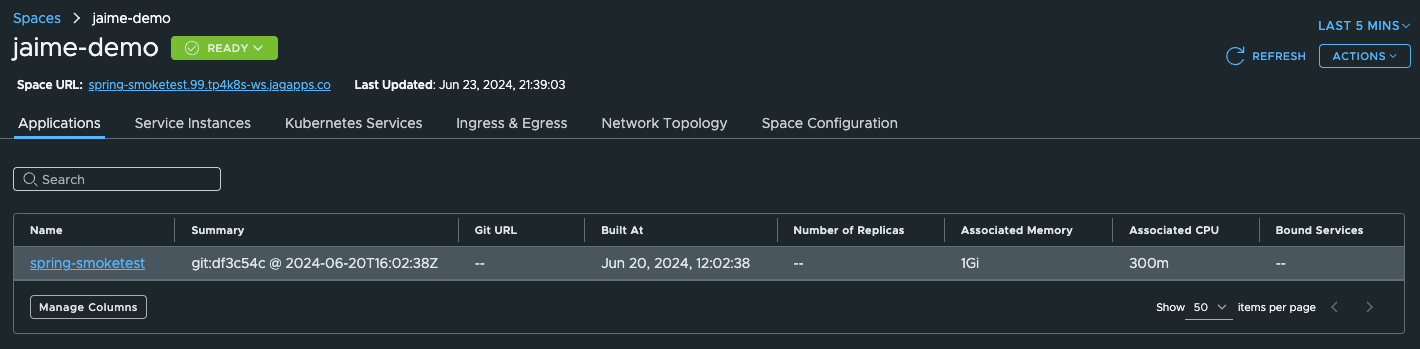
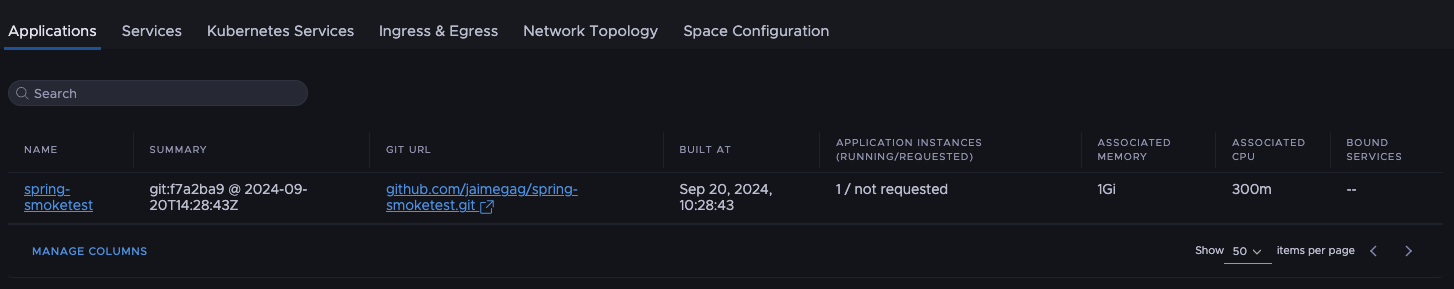
update pe lab to egresspoints and most Aug release changes

diff --git a/lab-platform-engineer/01-full-lab.md b/lab-platform-engineer/01-full-lab.md
@@ -170,18 +170,18 @@ Via command line you can check all the Packages (pkgi resource) for those Capabi
 alias tk='KUBECONFIG=~/.config/tanzu/kube/config kubectl'
 tk get pkgi
 NAME                                    PACKAGE NAME                            PACKAGE VERSION   DESCRIPTION   AGE
-cert-manager.tanzu.vmware.com           cert-manager.tanzu.vmware.com                                           2m8s
-k8sgateway.tanzu.vmware.com             k8sgateway.tanzu.vmware.com                                             2m7s
-tcs.tanzu.vmware.com                    tcs.tanzu.vmware.com                                                    2m5s
-egress.tanzu.vmware.com                 egress.tanzu.vmware.com                                                 2m5s
-observability.tanzu.vmware.com          observability.tanzu.vmware.com                                          2m4s
-mtls.tanzu.vmware.com                   mtls.tanzu.vmware.com                                                   2m4s
-crossplane.tanzu.vmware.com             crossplane.tanzu.vmware.com                                             2m2s
-bitnami.services.tanzu.vmware.com       bitnami.services.tanzu.vmware.com                                       2m2s
-container-apps.tanzu.vmware.com         container-apps.tanzu.vmware.com                                         2m
-servicebinding.tanzu.vmware.com         servicebinding.tanzu.vmware.com                                         119s
-tanzu-servicebinding.tanzu.vmware.com   tanzu-servicebinding.tanzu.vmware.com                                   118s
-spring-cloud-gateway.tanzu.vmware.com   spring-cloud-gateway.tanzu.vmware.com                                   117s
+cert-manager.tanzu.vmware.com           cert-manager.tanzu.vmware.com                                           3m17s
+k8sgateway.tanzu.vmware.com             k8sgateway.tanzu.vmware.com                                             3m16s
+tcs.tanzu.vmware.com                    tcs.tanzu.vmware.com                                                    3m15s
+egress.tanzu.vmware.com                 egress.tanzu.vmware.com                                                 3m14s
+observability.tanzu.vmware.com          observability.tanzu.vmware.com                                          3m13s
+mtls.tanzu.vmware.com                   mtls.tanzu.vmware.com                                                   3m12s
+crossplane.tanzu.vmware.com             crossplane.tanzu.vmware.com                                             3m10s
+bitnami.services.tanzu.vmware.com       bitnami.services.tanzu.vmware.com                                       3m9s
+container-apps.tanzu.vmware.com         container-apps.tanzu.vmware.com                                         3m8s
+servicebinding.tanzu.vmware.com         servicebinding.tanzu.vmware.com                                         3m7s
+tanzu-servicebinding.tanzu.vmware.com   tanzu-servicebinding.tanzu.vmware.com                                   3m6s
+spring-cloud-gateway.tanzu.vmware.com   spring-cloud-gateway.tanzu.vmware.com                                   3m5s
 ```
 
 #### (Optional) Remove needed capability to test error scenario
@@ -310,22 +310,22 @@ kubectl get pkgi -A
 # make sure these packages are reconciled - they are the ones added by the platform
 # note that there more packages than what is shown below, and the versions may be different
 
-NAMESPACE                    NAME                                              PACKAGE NAME                                  PACKAGE VERSION                DESCRIPTION           AGE
-tanzu-cluster-group-system   bitnami.services.tanzu.vmware.com                 bitnami.services.tanzu.vmware.com             0.6.0                          Reconcile succeeded   15h   # added from capabilities
-tanzu-cluster-group-system   cert-manager.tanzu.vmware.com                     cert-manager.tanzu.vmware.com                 2.9.1                          Reconcile succeeded   15h   # added from capabilities
-tanzu-cluster-group-system   container-apps.tanzu.vmware.com                   container-apps.tanzu.vmware.com               0.0.5+1718364253.b6bb7e71      Reconcile succeeded   15h   # added from capabilities
-tanzu-cluster-group-system   crossplane.tanzu.vmware.com                       crossplane.tanzu.vmware.com                   0.7.0                          Reconcile succeeded   15h   # added from capabilities
-tanzu-cluster-group-system   egress.tanzu.vmware.com                           egress.tanzu.vmware.com                       1.1.3                          Reconcile succeeded   15h  # added from capabilities
-tanzu-cluster-group-system   k8sgateway.tanzu.vmware.com                       k8sgateway.tanzu.vmware.com                   0.0.7                          Reconcile succeeded   15h   # added from capabilities
-tanzu-cluster-group-system   mtls.tanzu.vmware.com                             mtls.tanzu.vmware.com                         0.0.1                          Reconcile succeeded   15h   # added from capabilities
-tanzu-cluster-group-system   observability.tanzu.vmware.com                    observability.tanzu.vmware.com                1.0.15                         Reconcile succeeded   15h   # added from capabilities
-tanzu-cluster-group-system   servicebinding.tanzu.vmware.com                   servicebinding.tanzu.vmware.com               0.13.0                         Reconcile succeeded   15h   # added from capabilities
-tanzu-cluster-group-system   spring-cloud-gateway.tanzu.vmware.com             spring-cloud-gateway.tanzu.vmware.com         2.2.4                          Reconcile succeeded   15h   # added from capabilities
-tanzu-cluster-group-system   tanzu-servicebinding.tanzu.vmware.com             tanzu-servicebinding.tanzu.vmware.com         1.1.0+1718281466.c3437892      Reconcile succeeded   15h   # added from capabilities
-tanzu-cluster-group-system   tcs.tanzu.vmware.com                              tcs.tanzu.vmware.com                          2.2.14                         Reconcile succeeded   15h   # added from capabilities
-tanzu-system                 capabilities-controller                           capabilities-controller.tanzu.vmware.com      1.0.1+release.test             Reconcile succeeded   15h   # added from ucp
-tanzu-system                 syncer                                            syncer.ucp.tanzu.vmware.com                   1.0.1+release.15.180eca5c3     Reconcile succeeded   15h   # added from ucp
-tanzu-system                 vss-k8s-collector                                 vss-k8s-collector.tanzu.vmware.com            3.18.3                         Reconcile succeeded   15h   # added from ucp
+NAMESPACE                            NAME                                              PACKAGE NAME                                PACKAGE VERSION              DESCRIPTION           AGE
+tanzu-cluster-group-system           bitnami.services.tanzu.vmware.com                 bitnami.services.tanzu.vmware.com           0.8.0                        Reconcile succeeded   15h   # added from capabilities
+tanzu-cluster-group-system           cert-manager.tanzu.vmware.com                     cert-manager.tanzu.vmware.com               2.10.0                       Reconcile succeeded   15h   # added from capabilities
+tanzu-cluster-group-system           container-apps.tanzu.vmware.com                   container-apps.tanzu.vmware.com             0.0.8+1722931722.e9f0ea78    Reconcile succeeded   15h   # added from capabilities
+tanzu-cluster-group-system           crossplane.tanzu.vmware.com                       crossplane.tanzu.vmware.com                 0.8.1                        Reconcile succeeded   15h   # added from capabilities
+tanzu-cluster-group-system           egress.tanzu.vmware.com                           egress.tanzu.vmware.com                     1.3.0                        Reconcile succeeded   15h   # added from capabilities
+tanzu-cluster-group-system           k8sgateway.tanzu.vmware.com                       k8sgateway.tanzu.vmware.com                 0.0.7                        Reconcile succeeded   15h   # added from capabilities
+tanzu-cluster-group-system           mtls.tanzu.vmware.com                             mtls.tanzu.vmware.com                       0.0.1                        Reconcile succeeded   15h   # added from capabilities
+tanzu-cluster-group-system           observability.tanzu.vmware.com                    observability.tanzu.vmware.com              1.0.17                       Reconcile succeeded   15h   # added from capabilities
+tanzu-cluster-group-system           servicebinding.tanzu.vmware.com                   servicebinding.tanzu.vmware.com             0.13.0                       Reconcile succeeded   15h   # added from capabilities
+tanzu-cluster-group-system           spring-cloud-gateway.tanzu.vmware.com             spring-cloud-gateway.tanzu.vmware.com       2.2.5                        Reconcile succeeded   15h   # added from capabilities
+tanzu-cluster-group-system           tanzu-servicebinding.tanzu.vmware.com             tanzu-servicebinding.tanzu.vmware.com       1.1.1+1721405964.ac5b3964    Reconcile succeeded   15h   # added from capabilities
+tanzu-cluster-group-system           tcs.tanzu.vmware.com                              tcs.tanzu.vmware.com                        2.3.3                        Reconcile succeeded   15h   # added from capabilities
+tanzu-system                         capabilities-controller                           capabilities-controller.tanzu.vmware.com    1.0.3+release.21.4cc4f2fac   Reconcile succeeded   15h   # added from ucp
+tanzu-system                         syncer                                            syncer.ucp.tanzu.vmware.com                 1.0.3+release.21.4cc4f2fac   Reconcile succeeded   15h   # added from ucp
+tanzu-system                         vss-k8s-collector                                 vss-k8s-collector.tanzu.vmware.com          3.20.0                       Reconcile succeeded   15h   # added from ucp
 ```
 
 
@@ -396,12 +396,8 @@ Access the Hub GUI: `Application Spaces > Profiles > Create Profile > Step by St
 - Step 1: Name your Profile
     - Choose a unique name, distinctive from other networking profiles configured for other domain names. Example `networking.mydomain.com`:
 - Step 2: Choose required traits:
-    - `egress.tanzu.vmware.com`, `multicloud-cert-manager.tanzu.vmware.com`, and `multicloud-ingress.tanzu.vmware.com`. This will allow us to deploy the related packages in the k8s clusters with specific configuration for the Spaces that use this profile. More on this when we create a Space.
-- Step 3: Configure the `egress` trait:
-    - Click on the `Configure egress.tanzu.vmware.com`
-    - This step is optional but to ensure that the applications in the Spaces we are going to create with this Profile can call external services, we are going to open egress, which by default is closed.
-    - Set `Open` to `True`.
-- Step 4: Configure the `multicloud-ingress` trait:
+    - `multicloud-cert-manager.tanzu.vmware.com`, and `multicloud-ingress.tanzu.vmware.com`. This will allow us to deploy the related packages in the k8s clusters with specific configuration for the Spaces that use this profile. More on this when we create a Space.
+- Step 3: Configure the `multicloud-ingress` trait:
     - Click on the `Configure multicloud-ingress.tanzu.vmware.com`
     - The Listeners define the prefixes we can use later in the HTTPRoute resources to define HTTP, HTTPS, or other listener with corresponding ports and secrets if required.
     - Set the `Gslb Dns ZoneId` using the Route53 Zone ID you've been given at the beginning of the workshop.
@@ -409,9 +405,9 @@ Access the Hub GUI: `Application Spaces > Profiles > Create Profile > Step by St
     - Set the `Domain` to the domain name assigned as well.
     - The `Name` is used to name the IstioGatewway CRD that will be created in your Space. The HttpRoute (that needs to be created for each application we want to expose) references this name; so if you change this Istio Gateway ressource `Name` at Profile level, you will also have to change it in the HttpRoute object, which in this lab is provided for the smoke test app [here](./spring-smoketest/.tanzu/config/k8sGatewayRoutes.yaml)
     - You can leave all other defaults unchanged. More on ClusterIssuer in the advanced topics.
-- Step 5: Configure Additional Capabilities:
+- Step 4: Configure Additional Capabilities:
     - We don't need to do anything here for this specific profile, since the Capabilities required by the traits we selected are already pre-selected. But if we required additional capabiities on our custom profiles, this is the place where we will select them.
-- Step 6: Review Summary and Create
+- Step 5: Review Summary and Create
 
 
 Alternatively you can create the Profile via CLI.
@@ -543,8 +539,7 @@ Alternatively you can create the Space via CLI.
     kubectl get pkgi -n jaime-demo-58d6c9cf7d-wkbk9-internal
     # we should see all namespace-bound packages specific to the traits we selected in all Profiles of our Space
     NAME                                              PACKAGE NAME                                PACKAGE VERSION   DESCRIPTION           AGE
-    carvel-package-installer.tanzu.vmware.com-9b887   carvel-package-installer.tanzu.vmware.com   0.1.10            Reconcile succeeded   8m3s
-    egress.tanzu.vmware.com-6d9f5                     egress.tanzu.vmware.com                     0.0.5             Reconcile succeeded   8m3s
+    carvel-package-installer.tanzu.vmware.com-9b887   carvel-package-installer.tanzu.vmware.com   0.1.15            Reconcile succeeded   8m3s
     multicloud-cert-manager.tanzu.vmware.com-86446    multicloud-cert-manager.tanzu.vmware.com    2.0.0             Reconcile succeeded   8m3s
     multicloud-ingress.tanzu.vmware.com-8948f         multicloud-ingress.tanzu.vmware.com         0.1.5             Reconcile succeeded   8m2s
     observability.tanzu.vmware.com-6d469              observability-traits.tanzu.vmware.com       1.0.2             Reconcile succeeded   8m2s
@@ -558,6 +553,25 @@ Additional details in the [Increase Application Resilience docs](https://docs.vm
 
 
 ## Deploy a simple application to the Space to smoke-test our setup
+
+#### Create EgressPoint to allow egress traffic to external service
+Egress traffic is blocked by default but with the new egress capability we can allow traffic tocertain external destinations by creating EgressPoint resources in the space. Since the smoke-test app we are going to deploy makes call to https://api.ipify.org we need to configure an EgressPoint that allows for that fqdn, protcol and port.
+Access the Hub GUI: `Application Spaces > Spaces > Select your space > Ingress & Egress > Create Egress Point`:
+- Name the EgressPoint (e.g: ipify)
+- Set Host to: api.ipify.org
+- Set port to: 443
+- Set protocol to: https
+- Click on `Create Egress Point`
+The UI will show a screen like this confirming the configuration:
+![EgressPoint](./img/egresspoint.png)
+
+Alternatively you can create the EgressPoint via CLI.
+- Use the `egresspoint.yaml` sample template file included in the "templates" folder of this repo and.
+- Then run the following commands:
+    ```
+    tanzu project use <project-name>
+    tanzu deploy --only templates/egresspoint.yaml
+    ```
 
 #### Deploy pre-built application
 As a Platform Engineer I want to deploy an application to validate that all the setup we've prepared so far (cluster group, cluster, profile, space) is properly configured and ready for application development teams to use.
@@ -574,7 +588,7 @@ tanzu deploy --from-build ./pre-built
 Access the Hub GUI: `Application Spaces > Spaces > Click in your space to view details`. The space will now show gradually:
 - Applications: the `spring-smoketest` application you just deployed
     ![Space App](./img/spaceapp.png)
-    - Click on the Space URL to access the UI and see something similar to this:
+    - Open a new Browser tab and type the URL of your app. This should be `http` for the protocul and for the domain name concatenate `spring-smoketest.` with the domain value you used in the custom networking profile. E.g: `http://spring.moketest.tpk8s.hyrulelab.com. You should see something similar to this:
         ![App](./img/smoketestapp.png)
 - Kubernetes Services: `spring-smoketest` service and `default-gateway-istio` service for each cluster
     ![Space K8s Services](./img/spacek8sservices.png)
